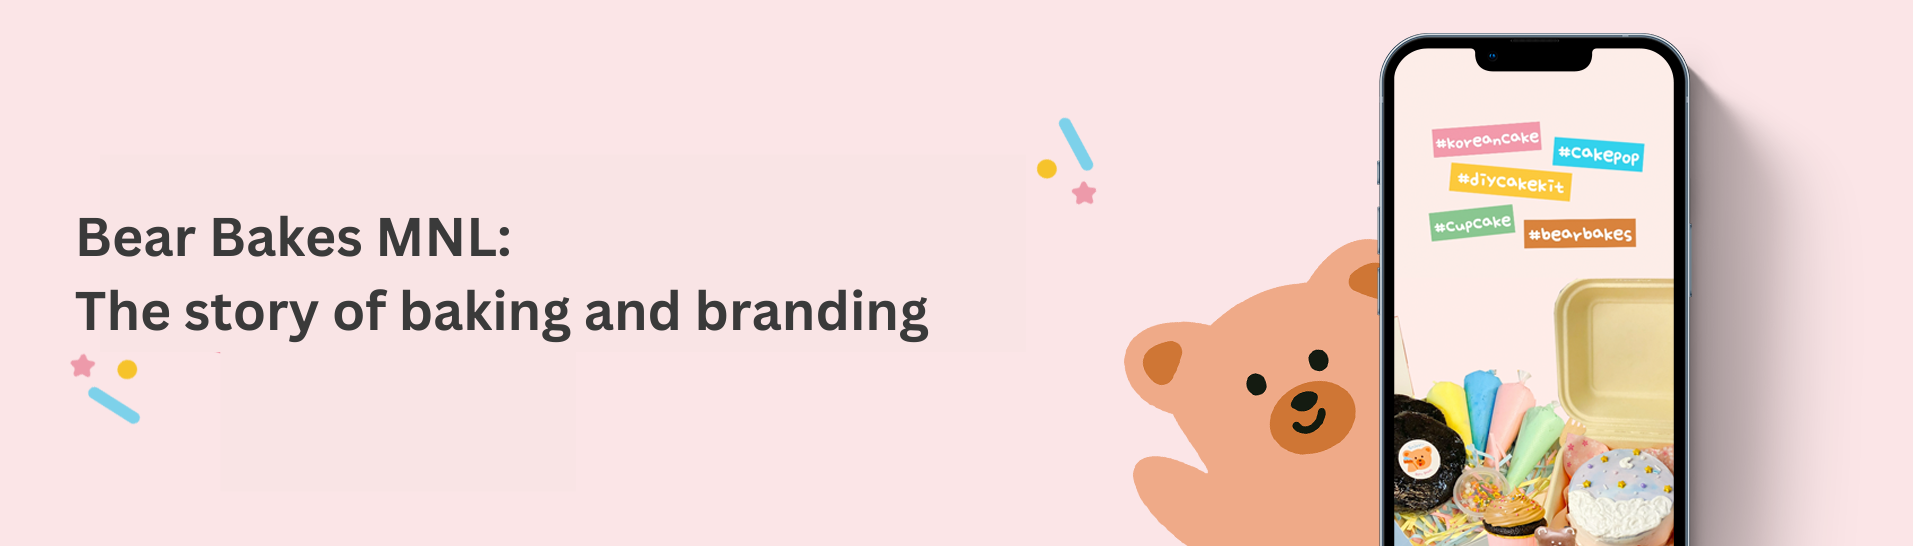
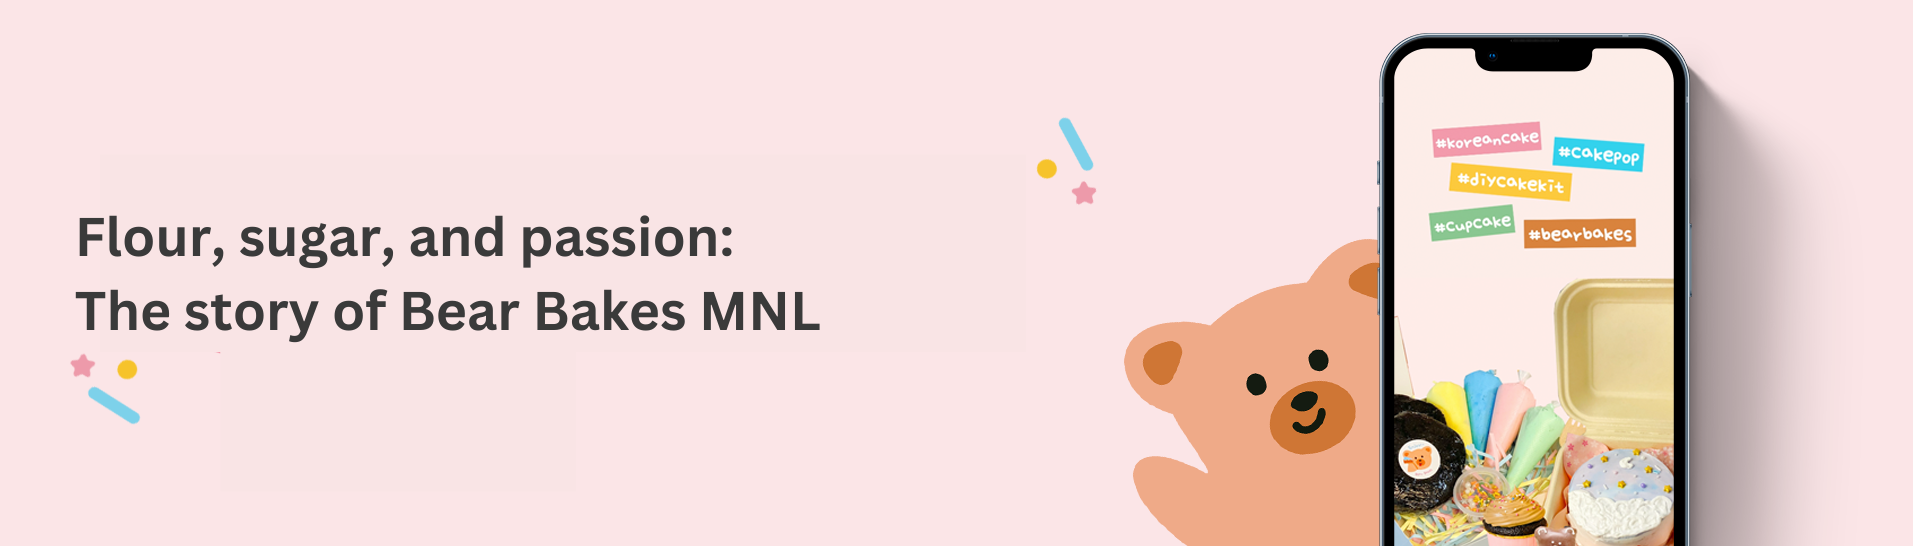
title

Changed region(s): [[0.2159, 0.5293, 0.4935, 0.6227], [0.0308, 0.4048, 0.4009, 0.4982]]

diff --git a/aa.html b/aa.html
@@ -196,7 +196,7 @@ function closeMenu() {
                 <div class="position-relative"><a class="reset-anchor d-block listing-img-holder" href="bearbakes.html"><img class="img-fluid rounded-lg" src="img/bb-new.png" alt="">
                     </p></a></div>
                 <div class="py-3"><a class="reset-anchor" href="bearbakes.html">
-                    <h2 class="h4 listing-item-heading">Baked and branded: The story of Bear Bakes MNL</h2></a>
+                    <h2 class="h4 listing-item-heading">Flour, sugar, and passion: The story of Bear Bakes MNL</h2></a>
                 </div>
               </div>
             </div>

diff --git a/ach.html b/ach.html
@@ -188,7 +188,7 @@ function closeMenu() {
                 <div class="position-relative"><a class="reset-anchor d-block listing-img-holder" href="bearbakes.html"><img class="img-fluid rounded-lg" src="img/bb-new.png" alt="">
                     </p></a></div>
                 <div class="py-3"><a class="reset-anchor" href="bearbakes.html">
-                    <h2 class="h4 listing-item-heading">Baked and branded: The story of Bear Bakes MNL</h2></a>
+                    <h2 class="h4 listing-item-heading">Flour, sugar, and passion: The story of Bear Bakes MNL</h2></a>
                 </div>
               </div>
             </div>

diff --git a/busog.html b/busog.html
@@ -201,7 +201,7 @@ function closeMenu() {
                 <div class="position-relative"><a class="reset-anchor d-block listing-img-holder" href="bearbakes.html"><img class="img-fluid rounded-lg" src="img/bb-new.png" alt="">
                     </p></a></div>
                 <div class="py-3"><a class="reset-anchor" href="bearbakes.html">
-                    <h2 class="h4 listing-item-heading">Baked and branded: The story of Bear Bakes MNL</h2></a>
+                    <h2 class="h4 listing-item-heading">Flour, sugar, and passion: The story of Bear Bakes MNL</h2></a>
                 </div>
               </div>
             </div>

diff --git a/communitails.html b/communitails.html
@@ -208,7 +208,7 @@ function closeMenu() {
                 <div class="position-relative"><a class="reset-anchor d-block listing-img-holder" href="bearbakes.html"><img class="img-fluid rounded-lg" src="img/bb-new.png" alt="">
                     </p></a></div>
                 <div class="py-3"><a class="reset-anchor" href="bearbakes.html">
-                    <h2 class="h4 listing-item-heading">Baked and branded: The story of Bear Bakes MNL</h2></a>
+                    <h2 class="h4 listing-item-heading">Flour, sugar, and passion: The story of Bear Bakes MNL</h2></a>
                 </div>
               </div>
             </div>

diff --git a/misa.html b/misa.html
@@ -239,7 +239,7 @@ function closeMenu() {
                 <div class="position-relative"><a class="reset-anchor d-block listing-img-holder" href="bearbakes.html"><img class="img-fluid rounded-lg" src="img/bb-new.png" alt="">
                     </p></a></div>
                 <div class="py-3"><a class="reset-anchor" href="bearbakes.html">
-                    <h2 class="h4 listing-item-heading">Baked and branded: The Bear Bakes MNL story</h2></a>
+                    <h2 class="h4 listing-item-heading">Flour, sugar, and passion: The story of Bear Bakes MNL</h2></a>
                 </div>
               </div>
             </div>

diff --git a/index.html b/index.html
@@ -273,7 +273,7 @@ function closeMenu() {
                 </div>
                 <div class="py-1"><a class="reset-anchor" href="bearbakes.html">
                       <p class="mb-0 listing-item-description"> Graphic Design | Videography</p>
-                    <h2 class="h3 listing-item-heading">Bear Bakes MNL: The story of baking and branding</h2></a>
+                    <h2 class="h3 listing-item-heading"> Flour, sugar, and passion: The story of Bear Bakes MNL</h2></a>
                    <br>
                 </div>
               </div>
